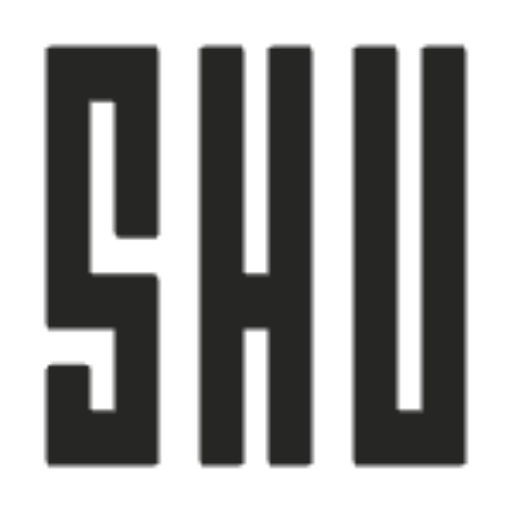
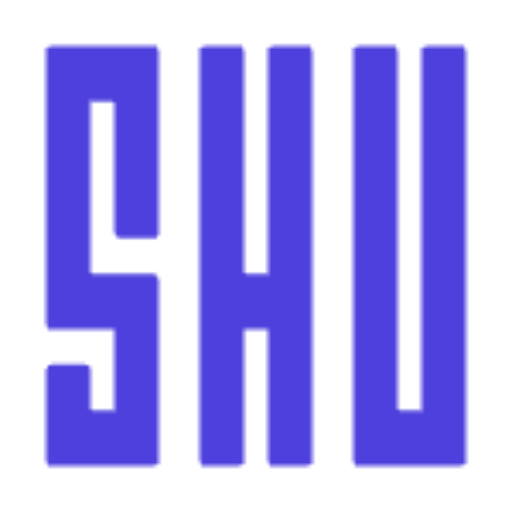
make purple theme default

diff --git a/src/contexts/ThemeProvider.tsx b/src/contexts/ThemeProvider.tsx
@@ -85,7 +85,7 @@ const cookie = new Cookie("theme");
 
 const ThemeProvider: React.FC<ThemeProviderProps> = ({ children }) => {
   const [mode, _setMode] = useState<ThemeMode>(ThemeMode.Light);
-  const [variant, _setVariant] = useState<ThemeVariant>(ThemeVariant.Plain);
+  const [variant, _setVariant] = useState<ThemeVariant>(ThemeVariant.Purple);
   const [userPreference, setUserPreference] = useState(false);
 
   const setMode = useCallback((mode: ThemeMode) => {
